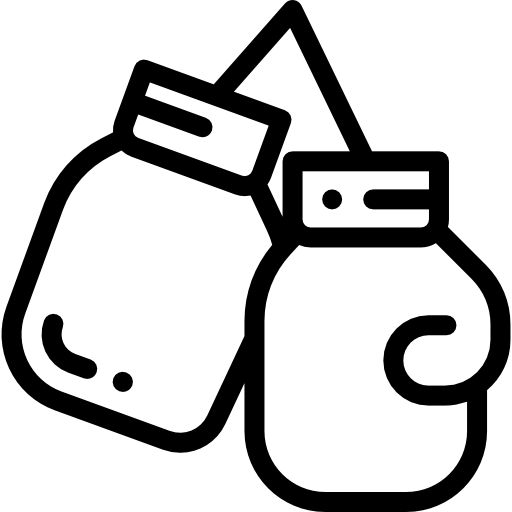
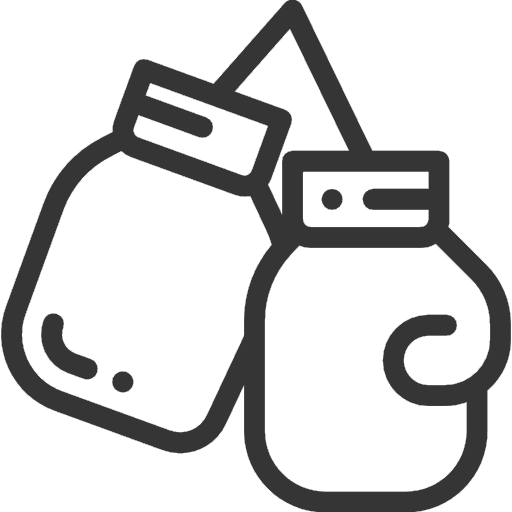
added uniform styling

Changed region(s): [[0.0, 0.0, 1.0, 1.0]]

diff --git a/client/public/index.html b/client/public/index.html
@@ -1,21 +1,22 @@
 <!DOCTYPE html>
 <html lang="en">
-  <head>
-    <meta charset="utf-8" />
-    <link rel="icon" href="%PUBLIC_URL%/favicon.ico" />
-    <meta name="viewport" content="width=device-width, initial-scale=1" />
-    <meta name="theme-color" content="#000000" />
-    <meta
-      name="description"
-      content="Web site created using create-react-app"
-    />
-    <link rel="apple-touch-icon" href="%PUBLIC_URL%/logo192.png" />
-    <!--
+
+<head>
+  <meta charset="utf-8" />
+  <link rel="icon" href="%PUBLIC_URL%/favicon.ico" />
+  <meta name="viewport" content="width=device-width, initial-scale=1" />
+  <meta name="theme-color" content="#000000" />
+  <meta name="description" content="Web site created using create-react-app" />
+  <link rel="apple-touch-icon" href="%PUBLIC_URL%/logo192.png" />
+  <link rel="preconnect" href="https://fonts.googleapis.com">
+  <link rel="preconnect" href="https://fonts.gstatic.com" crossorigin>
+  <link href="https://fonts.googleapis.com/css2?family=Montserrat&display=swap" rel="stylesheet">
+  <!--
       manifest.json provides metadata used when your web app is installed on a
       user's mobile device or desktop. See https://developers.google.com/web/fundamentals/web-app-manifest/
     -->
-    <link rel="manifest" href="%PUBLIC_URL%/manifest.json" />
-    <!--
+  <link rel="manifest" href="%PUBLIC_URL%/manifest.json" />
+  <!--
       Notice the use of %PUBLIC_URL% in the tags above.
       It will be replaced with the URL of the `public` folder during the build.
       Only files inside the `public` folder can be referenced from the HTML.
@@ -24,12 +25,13 @@
       work correctly both with client-side routing and a non-root public URL.
       Learn how to configure a non-root public URL by running `npm run build`.
     -->
-    <title>SuperPunch</title>
-  </head>
-  <body>
-    <noscript>You need to enable JavaScript to run this app.</noscript>
-    <div id="root"></div>
-    <!--
+  <title>SuperPunch</title>
+</head>
+
+<body>
+  <noscript>You need to enable JavaScript to run this app.</noscript>
+  <div id="root"></div>
+  <!--
       This HTML file is a template.
       If you open it directly in the browser, you will see an empty page.
 
@@ -39,5 +41,6 @@
       To begin the development, run `npm start` or `yarn start`.
       To create a production bundle, use `npm run build` or `yarn build`.
     -->
-  </body>
+</body>
+
 </html>

diff --git a/client/src/pages/SpecificProduct.js b/client/src/pages/SpecificProduct.js
@@ -35,7 +35,7 @@ function SpecificProduct() {
             alert.success("Product added to cart!");
             if (buyNow) {
                 history.push('/checkout')
-                
+
             }
         } else {
             for (const item of items) {
@@ -90,19 +90,21 @@ function SpecificProduct() {
                     </Carousel>
                 </div>
                 <div className="SpecificProduct-detail">
-                    <h2>{product.name}</h2>
-                    <ReactStars
-                        count={5}
-                        size={24}
-                        color2={'#ffd700'}
-                        half={false}
-                        edit={false}
-                        value={product.rating}
-                    />
-                    <div>${product.price}.00</div>
-                    <div className="SpecificProduct-detail-buttons">
-                        <Button onClick={() => handleClick()} text={"Add To Cart"} />
-                        <Button onClick={() => handleClick('buyNow')} text={"Buy Now"} />
+                    <div className="SpecificProduct-detail-top">
+                        <h2>{product.name}</h2>
+                        <ReactStars
+                            count={5}
+                            size={24}
+                            color2={'#ffd700'}
+                            half={false}
+                            edit={false}
+                            value={product.rating}
+                        />
+                        <div className="SpecificProduct-detail-price">${product.price}.00</div>
+                        <div className="SpecificProduct-detail-buttons">
+                            <Button onClick={() => handleClick()} text={"Add To Cart"} />
+                            <Button onClick={() => handleClick('buyNow')} text={"Buy Now"} />
+                        </div>
                     </div>
 
 

diff --git a/client/src/pages/AllProducts.js b/client/src/pages/AllProducts.js
@@ -22,19 +22,19 @@ function AllProducts() {
         if (product) {
             dispatch(resetProduct())
         }
-    },[])
+    }, [])
 
     useEffect(() => {
         let displayedProducts = [];
         products.forEach((product) => {
             if (product.category === displayProducts) {
                 displayedProducts.push(product)
-            } else if (displayProducts === 'All Products'){
+            } else if (displayProducts === 'All Products') {
                 displayedProducts.push(product)
             }
         })
         setLoadedProducts(displayedProducts)
-    },[displayProducts, products])
+    }, [displayProducts, products])
 
     let fetchedProducts;
     if (loadedProducts) {
@@ -49,7 +49,9 @@ function AllProducts() {
             {!loading && <div className="AllProducts-types">
                 <div className="AllProducts-types-display">
                     Shop/<br />
-                    {displayProducts}
+                    <span className="AllProducts-types-display-current">
+                        {displayProducts}
+                    </span>
                 </div>
                 <ul>
                     <li className="hover-underline-animation" onClick={() => handleClick('All Products')}>All Products</li>
@@ -62,7 +64,7 @@ function AllProducts() {
             {!loading && <div className="AllProducts-Products">
                 <div className="AllProducts-Products-row">{fetchedProducts}</div>
             </div>}
-            {loading && <Loader/>}
+            {loading && <Loader />}
         </div>
     )
 }

diff --git a/client/src/components/ItemInCart.js b/client/src/components/ItemInCart.js
@@ -16,7 +16,7 @@ function ItemInCart(props) {
     useEffect(() => {
         setTotal(item.price)
         setQuantity(1)
-},[item])
+    }, [item])
 
     const handleClick = (id) => {
         dispatch(removeItem(id))
@@ -41,18 +41,20 @@ function ItemInCart(props) {
 
     return (
         <div className="ItemInCart-detail" key={item._id}>
-            <Link to={`/shop/${item._id}`}>
-                <div>{item.name}</div>
+            <div className="ItemInCart-detail-image">
+                <Link to={`/shop/${item._id}`}>
+                    <div>{item.name}</div>
                 </Link>
                 <img src={item.image} alt={item.name}></img>
-                <div className="ItemInCart-detail-quantity">
-                <Button onClick={decreaseQuantity} text={"-"}/>
-                    <div>{quantity}</div>
-                <Button onClick={addQuantity} text={"+"}/>
-                </div>
-                <div className="ItemInCart-detail-price">${total}</div>
-            <Button remove={true} onClick={() => handleClick(item._id)} text={"Remove"}/>
             </div>
+            <div className="ItemInCart-detail-quantity">
+                <Button onClick={decreaseQuantity} text={"-"} />
+                <div>{quantity}</div>
+                <Button onClick={addQuantity} text={"+"} />
+            </div>
+            <div className="ItemInCart-detail-price">${total}</div>
+            <Button className="button" remove={true} onClick={() => handleClick(item._id)} text={"Remove"} />
+        </div>
     )
 }
 

diff --git a/client/src/components/_ItemInCart.scss b/client/src/components/_ItemInCart.scss
@@ -1,18 +1,31 @@
 @import '../styles/mixins';
+@import '../styles/variables';
 
 .ItemInCart {
     &-detail {
-        border: 1px solid rgb(185, 192, 185);
+        border: 1px solid $color-primary-light;
         display: flex;
         justify-content: space-between;
         margin-bottom: 1rem;
-        
-        img {
-            border: 1px solid black;
-            width: 50%;
+        padding: 1rem;
+
+        &-image {
+            @include center-vertically;
+            width: 60%;
+            a {
+                text-decoration: none;
+                color: inherit;
+            }
+            img {
+                width: 50%;
+            }
         }
+        
+
         &-quantity {
             @include center-vertically;
+            justify-content: space-around;
+            width: 70px;
             flex-direction: row;
             button {
                 height: 30px;
@@ -28,6 +41,16 @@
 @media only screen and (max-width: 700px) { 
     .ItemInCart{
         &-detail{
+            &-image {
+                width: 100%;
+                margin-bottom: 1rem;
+            }
+            &-quantity {
+                margin-bottom: 1rem;
+            }
+            &-price {
+                margin-bottom: 1rem;
+            }
             @include center-vertically;
         }
     }

diff --git a/client/src/pages/Checkout.js b/client/src/pages/Checkout.js
@@ -42,11 +42,11 @@ function Checkout() {
 
     return (
         <div className="Checkout">
-            {!isAuthenticated && <h1>Your Shopping Cart</h1>}
-            {isAuthenticated && <h1>{user.username}'s Shopping Cart</h1>}
+            {!isAuthenticated && <h1 className="Checkout-header">Your Shopping Cart</h1>}
+            {isAuthenticated && <h1 className="Checkout-header">{user.username}'s Shopping Cart</h1>}
             {cartItems}
-            {items.length <= 0 && <div>Your cart is empty.</div>}
-            <div>Subtotal: ${subtotal}</div>
+            {items.length <= 0 && <div className="Checkout-empty">Your cart is empty.</div>}
+            <div className="Checkout-subtotal">Subtotal: ${subtotal}</div>
             {items.length > 0 && <Button onClick={handleCheckoutClick} text={"Checkout"}/>}
             {items.length <= 0 && <Button onClick={handleBrowseClick} text={"Browse Products"}/>}
         </div>

diff --git a/client/src/pages/_SpecificProduct.scss b/client/src/pages/_SpecificProduct.scss
@@ -1,7 +1,6 @@
 @import '../styles/mixins';
 
 .SpecificProduct {
-    border: 1px solid red;
     display: flex;
     flex-direction: row;
     justify-content: space-between;
@@ -11,6 +10,9 @@
     &-detail{
         height: 100vh;
         width: 35%;
+        &-price {
+            margin: 1rem 0;
+        }
         &-buttons {
             width: 50%;
             display: flex;
@@ -38,6 +40,9 @@
         }
         &-detail {
             width: 100%;
+            &-top {
+                @include center-vertically;
+            }
         }
     }
 }

diff --git a/client/src/pages/_AllProducts.scss b/client/src/pages/_AllProducts.scss
@@ -14,6 +14,9 @@
         &-display {
             font-size: 1.5rem;
             margin-bottom: 6rem;
+            &-current{                
+                text-decoration: underline;
+            }
         }
     }
 
@@ -85,6 +88,11 @@
 .hover-underline-animation {
     display: inline-block;
     position: relative;
+    width: 170px;
+
+    @media only screen and (max-width: 700px) {
+    width: 115px;
+    }
 
     &:after{
         content: '';

diff --git a/client/src/_index.scss b/client/src/_index.scss
@@ -1,10 +1,11 @@
+@import './styles/variables';
 body {
   margin: 0;
-  font-family: -apple-system, BlinkMacSystemFont, 'Segoe UI', 'Roboto', 'Oxygen',
-    'Ubuntu', 'Cantarell', 'Fira Sans', 'Droid Sans', 'Helvetica Neue',
-    sans-serif;
+  font-family: 'Montserrat', sans-serif;
   -webkit-font-smoothing: antialiased;
   -moz-osx-font-smoothing: grayscale;
+  background-color: rgb(241, 241, 241);
+  color: $color-primary-dark;
 }
 
 code {

diff --git a/client/src/components/_Review.scss b/client/src/components/_Review.scss
@@ -1,5 +1,9 @@
+@import '../styles/variables';
+
 .Review {
-    border: 1px solid green;
+    border: 1px solid $color-primary-light;
+    margin-bottom: 1rem;
+    border-radius: 0.2rem;
     &-detail {
         display: flex;
         flex-direction: row;
@@ -9,7 +13,7 @@
         }
     }
     &-body {
-        border-top: 1px solid black;
+        border-top: 1px solid $color-primary-light;
     }
 }
 

diff --git a/client/src/components/uiElements/Button.js b/client/src/components/uiElements/Button.js
@@ -8,7 +8,7 @@ function Button(props) {
     return (
         <>
             {!remove && <button onClick={onClick} disabled={disabled} className="Button">
-                {text}
+                {text.toUpperCase()}
             </button>}
             {remove && <button onClick={onClick} disabled={disabled} className="Button Button-Remove">
                 {text}

diff --git a/client/src/components/uiElements/_Button.scss b/client/src/components/uiElements/_Button.scss
@@ -4,9 +4,14 @@
 .Button {
     background-color: $color-primary-dark;
     color: $color-primary;
-    border-radius: 0.5rem;
+    border: none;
+    border-radius: 0.2rem;
+    padding: 0.5rem;
+    box-shadow: none;
+
     &:hover {
         background-color: $color-primary-light;
+        border-color: $color-primary-light;
         cursor: pointer;
     }
 }
